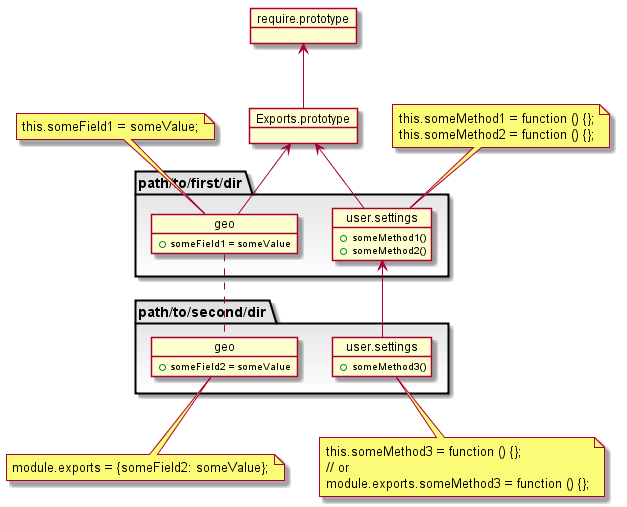
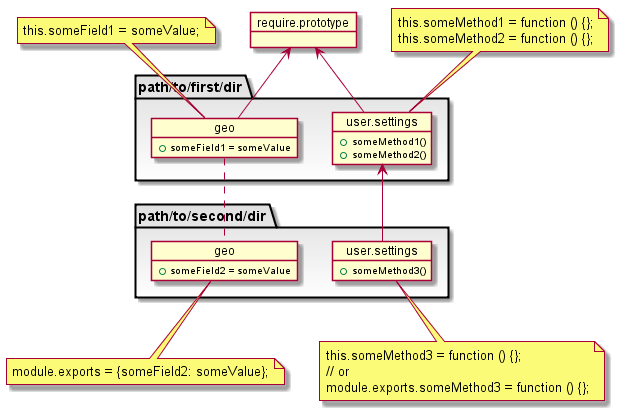
Update doc

diff --git a/doc/require.js.html b/doc/require.js.html
@@ -22,9 +22,9 @@
 <article>
 <pre class="prettyprint source"><code>/** * @file Implementation require for XScript and client-side. * @author Vlad Kurkin &lt;b-vladi@yandex-team.ru> * @version 1.6 * @license &lt;a href="https://github.com/appendto/amplify/blob/master/MIT-LICENSE.txt">MIT&lt;/a> */
 
-/** * Пространство имен XJS-модулей. * @namespace $XM * @see require */ var $XM = {};
+/** * Глобальное пространство имен CommonJS-модулей. * @namespace $XM * @see require */ var $XM = {};
 
-/** * @description Implementation require for XScript and client-side. See {@tutorial README}. * &lt;br />Алгоритм работы require: * &lt;br />&lt;img src="../uml/Work.png" /> * &lt;br />Схема наследования модулей: * &lt;br />&lt;img src="../uml/Inherit.png" /> * @param {String} namespace Пространство имен модуля или путь к JavaScript-файлу. Пространство имен представляет собой строку имён, разделённых точкой. Имя должно начинаться с буквы, затем могут идти символы латинского алфавита и знаки "-_". В случае передачи пути, require воспринимает это как обращение к подмодулю (см. диаграмму алгоритма работы в исходниках), инициализируя свойство {@link Module#parent}. * @tutorial README * @function require * @global * @return {Object} Объект {@link Module#exports}. * @property {Array} [path=[]] Массив путей с директориями, в которых будут искаться файлы модулей на серверной стороне. Каждый путь представляет собой уровень переопределения, выстраивающий соответствующую цепочку наследования модулей из одного пространства имен. * @property {String} [extension='js'] Расширение файлов модулей. См {@link Module#load}. * @property {String} [packageName='package.json'] Имя JSON-файла, содержащий информацию о модуле. См {@link Module#load}. * @property {Object} [file=xscript.file] Объект с методами доступа к файловой системе. Существует только на серверной стороне. * @property {Object} prototype Общий прототип объектов API модулей ({@link Module#exports}). * @property {Function} define(namespace,wrapper) Регистрирует модуль по указанному namespace в первом параметре. Вторым параметром должена быть функция, которая принимает 4 аргумента (см. {@link Module#compile}) и содержит в себе тело модуля. Вызов метода require.define не инициализирует модуль (функция wrapper не вызывается). Инициализация происходит в момент первого обращения к модулю через вызов require. Все аргументы обязательны. * @throws {RequireError} Ошибка получения модуля. * @example * // Загрузка модуля из разных уровней переопределения: * require.path = ['/path/to/first/dir/', './path/to/second/dir']; * require('name.space'); * // В этом случае объект API модуля, загруженного из файла "path/to/second/dir/names.space.js" * // будет наследовать от API модуля, загруженного из "/path/to/first/dir/names.space.js". * * // Доступ к модулям из пространства имен: * require('some.name.space'); * $XM.some.name.space; // объект {@link Module#exports}. * * // Регистрация модуля в браузере: * require.define('name.space', function (module, exports, require, basedir) { * // Тело модуля * }); */
+/** * @description Кастомная реализация функции require для CommonJS-модулей с поддержкой окружений XScript и Client-side. See {@tutorial README}. * &lt;br />Алгоритм работы require: * &lt;br />&lt;img src="../uml/Work.png" /> * &lt;br />Схема наследования модулей: * &lt;br />&lt;img src="../uml/Inherit.png" /> * @param {String} namespace Пространство имен модуля или путь к JavaScript-файлу. Пространство имен представляет собой строку имён, разделённых точкой. Имя должно начинаться с буквы, затем могут идти символы латинского алфавита, а так же знаки "-" и "_". Если переданный аргумент не является пространством имен, он воспринимается как путь к файлу, по которому следует загрузить модуль. * @tutorial README * @function require * @global * @return {Object} Объект {@link Module#exports}. * @property {Array} [path=[]] Массив путей с директориями, в которых будут искаться файлы модулей на серверной стороне. Каждый путь представляет собой уровень переопределения, выстраивающий соответствующую цепочку наследования модулей из одного пространства имен (см. схему наследования). * @property {String} [extension='js'] Расширение файлов модулей. Подробнее: {@link Module#load}. * @property {String} [packageName='package.json'] Имя JSON-файла, содержащий информацию о модуле. В данный момент используется только свойство main. Подробнее: {@link Module#load}. * @property {Object} [file=xscript.file] API XScript-а для работы с файловой системой. Существует только на серверной стороне. * @property {Object} prototype Общий прототип объектов ({@link Module#exports}) (см. схему наследования). * @property {Function} define(namespace,wrapper) Регистрирует модуль по указанному пространству имен в первом параметре. Вторым параметром должена быть функция, которая принимает 4 аргумента (см. {@link Module#compile}) и содержит в себе тело модуля. Вызов метода {@link require}.define не инициализирует модуль (функция wrapper не вызывается). Инициализация происходит в момент первого обращения к модулю через вызов require. Все аргументы обязательны. * @throws {RequireError} Ошибка получения модуля. * @example * // Загрузка модуля из разных уровней переопределения: * require.path = ['/path/to/first/dir/', './path/to/second/dir']; * require('name.space'); * // В этом случае объект {@link Module#exports}, из модуля "path/to/second/dir/names.space.js", * // будет наследовать от объекта {@link Module#exports}, из модуля "/path/to/first/dir/names.space.js". * * // Доступ к модулям из глобального пространства имен: * require('some.name.space'); * $XM.some.name.space; // объект {@link Module#exports}. * * // Регистрация модуля в браузере: * require.define('name.space', function (module, exports, require, basedir) { * // Тело модуля * }); */
 
 var require = (function () { var MODULE_CACHE = {}, WRAPPER_CACHE = {}, STACK = [], NSRegExp = /^([a-z]+[a-z\-_]*)(?:\.[a-z]+[a-z\-_]*)*$/i, parent = null, undefined;
 
@@ -60,9 +60,9 @@ RequireError.prototype = new Error(); RequireError.prototype.name = 'RequireErro
 
 function Exports() { }
 
-/** * Конструктор объекта модуля. * @summary &lt;img src="../uml/Module.png" alt="" /> * @name Module * @constructor * @private * @param {String} [namespace=undefined] Пространство имен модуля. * @param {String} [path=undefined] Путь к файлу или дирректории, по которому он будет загружен. * @throws {RequireError} Ошибка создания модуля. */ function Module(namespace, path) { /** * Функция загрузки модуля, аналогична {@link require}. * @param {String} namespace См. {@link require}. * @name Module#require * @method */ this.require = requireFactory(this);
+/** * Конструктор объекта модуля. Структура создаваемых экземпляров отличается от спецификации CommonJS. * @summary &lt;img src="../uml/Module.png" alt="" /> * @name Module * @constructor * @private * @param {String} [namespace=undefined] Пространство имен модуля. * @param {String} [path=undefined] Путь к файлу или дирректории, по которому он будет загружен. * @throws {RequireError} Ошибка создания модуля. */ function Module(namespace, path) { /** * Функция загрузки модуля, аналогична {@link require}. * @param {String} namespace См. {@link require}. * @name Module#require * @method */ this.require = requireFactory(this);
 
-/** * Реализация модуля, являющаяся его внешним API. По-умолчанию этот объект наследует от {@link Module#prototype}. Для того, что бы разорвать наследование между уровнями переопределения, достаточно заменить значение этого свойства (см. диаграмму с примером наследования в исходниках). * @name Module#exports * @type {Object} */ this.exports = new Exports();
+/** * Реализация модуля, являющаяся его внешним API. По-умолчанию этот объект наследует от {@link Module#prototype}. Для того, что бы разорвать наследование между уровнями переопределения, достаточно заменить значение этого свойства (см. диаграмму наследования). * @name Module#exports * @type {Object} */ this.exports = new Exports();
 
 /** * Ссылка на прототип объекта {@link Module#exports}. Концом цепочки наследования является {@link require}.prototype, если не было переопределено свойство {@link Module#exports} на каком-либо уровне переопределения. * @name Module#prototype * @type {Object} * @example * // Исходный код модуля, находящегося на втором уровне переопределения. * // Перекрытие наследуемого метода. * this.log = function (string) { * // Вызов исходного метода * return module.prototype.log('[LOG]: ' + string); * } */ this.prototype = Exports.prototype;
 
@@ -86,7 +86,7 @@ parent = null;
 
 if (path) { this.init(this.load(path).compile()); } }
 
-/** * Загружает код модуля из папки dir на серверной стороне. Поиск кода осуществляется последовательно в местах: * &lt;br />&lt;br /> * Если модуль имеет пространство имён: * &lt;ol> * &lt;li>Ищется папка с именем пространства имён.&lt;/li> * &lt;li>Если папка найдена, в ней ищется JSON-файл с именем, указанным в {@link require}.packageName.&lt;/li> * &lt;li>Если JSON-файл найден и в нем определено свойство main с именем входного файла, ищется указанный файл в текущей папке&lt;/li> * &lt;li>Если JSON-файл отсутствует, в текущей папке ищется файл, имя которого совпадает с пространством имен модуля с расширением, указанным в {@link require}.extension.&lt;/li> * &lt;/ol> * Если пространство имен не указано, код загружается по указанному пути. * &lt;br />&lt;br />Таким образом, файловая структура модуля c установленным namespace может представлять собой (в порядке приоритета): * &lt;ol> * &lt;li>namespace/&lt;br />&nbsp;&nbsp;package.json ({"main": "main.js"})&lt;br />&nbsp;&nbsp;main.js&lt;/li> * &lt;li>namespace/&lt;br />&nbsp;&nbsp;namespace.js&lt;/li> * &lt;li>namespace.js&lt;/li> * &lt;/ol> * &lt;br />&lt;br /> * Схема алгоритма поиска модуля: * &lt;br />&lt;img src="../uml/Load.png" /> * &lt;p> * &lt;b>TODO:&lt;/b> реализовать поддержку загрузки по URL из браузера. * &lt;/p> * @param {String} dir Путь к файлу или дирректории. * @return {Module} * @name Module#load * @throws {Error|RequireError} Ошибка загрузки кода. * @method */ Module.prototype.load = function (dir) { var PATH_TO_FILE = 1, PATH_TO_PACKAGE = 2, PATH_TO_DIR = 3, PATH_TO_MAIN = 4;
+/** * Загружает код модуля из папки dir на серверной стороне. Поиск кода осуществляется последовательно в местах: * &lt;br />&lt;br /> * Если модуль имеет пространство имён: * &lt;ol> * &lt;li>Ищется папка с именем пространства имён.&lt;/li> * &lt;li>Если папка найдена, в ней ищется JSON-файл с именем, указанным в {@link require}.packageName.&lt;/li> * &lt;li>Если JSON-файл найден и в нем определено свойство main с именем входного файла, ищется указанный файл в текущей папке.&lt;/li> * &lt;li>Если JSON-файл отсутствует, в текущей папке ищется файл, имя которого совпадает с пространством имен модуля с расширением, указанным в {@link require}.extension.&lt;/li> * &lt;/ol> * Если пространство имен не указано, код загружается по указанному пути. * &lt;br />&lt;br />Таким образом, файловая структура модуля c установленным namespace может представлять собой (в порядке приоритета): * &lt;ol> * &lt;li>namespace/&lt;br />&nbsp;&nbsp;package.json ({"main": "main.js"})&lt;br />&nbsp;&nbsp;main.js&lt;/li> * &lt;li>namespace/&lt;br />&nbsp;&nbsp;namespace.js&lt;/li> * &lt;li>namespace.js&lt;/li> * &lt;/ol> * &lt;br />&lt;br /> * Схема алгоритма поиска модуля: * &lt;br />&lt;img src="../uml/Load.png" /> * &lt;p> * &lt;b>TODO:&lt;/b> реализовать поддержку загрузки по URL из браузера. * &lt;/p> * @param {String} dir Путь к файлу или дирректории. * @return {Module} * @name Module#load * @throws {Error|RequireError} Ошибка загрузки кода. * @method */ Module.prototype.load = function (dir) { var PATH_TO_FILE = 1, PATH_TO_PACKAGE = 2, PATH_TO_DIR = 3, PATH_TO_MAIN = 4;
 
 var namespace = this.namespace, path = dir, state;
 
@@ -164,9 +164,9 @@ WRAPPER_CACHE[namespace] = module; };
 
 return Require; }());
 
-/* @startuml * "Save module in cache" as SaveInCache -d-> "Create namespace" as NS * * (*) --> if "" then * note left: The module is\nin the cache? * -d-> [true] "Return\n&lt;i>module.exports&lt;/i>" as Return * else * -r-> [false] if "" then * note top: The module is defined? * partition "1. Load from defined" { * --> [true] "&lt;i>new Module(namespace)&lt;/i>\n&lt;i>.init(wrapper)&lt;/i>" * -d-> SaveInCache * } * else * -r-> [false] if "" then * note top: The first argument\nis the namespace? * * partition "2. Load from namespace" { * -d-> [true] "Iterating of\n&lt;i>require.path&lt;/i>,\n&lt;i>new Module(namespace, path);&lt;/i>" * -d-> SaveInCache * } * * else * partition "3. Load from file" { * -r-> [false] "&lt;i>new Module(null,&lt;/i>\n&lt;i>namespace);&lt;/i>" * --> Return * } * endif * endif * endif * * NS --> Return * Return -d-> (*) * @enduml * * @startuml * object require.prototype { * } * * object Exports.prototype { * } * * package "path/to/first/dir" #DFDFDF-ffffff { * object "user.settings" as Settings_1 &lt;&lt; (E,orchid) >> { * +someMethod1() * +someMethod2() * }
+/* @startuml * "Save module in cache" as SaveInCache -d-> "Create namespace" as NS * * (*) --> if "" then * note left: The module is\nin the cache? * -d-> [true] "Return\n&lt;i>module.exports&lt;/i>" as Return * else * -r-> [false] if "" then * note top: The module is defined? * partition "1. Load from defined" { * --> [true] "&lt;i>new Module(namespace)&lt;/i>\n&lt;i>.init(wrapper)&lt;/i>" * -d-> SaveInCache * } * else * -r-> [false] if "" then * note top: The first argument\nis the namespace? * * partition "2. Load from namespace" { * -d-> [true] "Iterating of\n&lt;i>require.path&lt;/i>,\n&lt;i>new Module(namespace, path);&lt;/i>" * -d-> SaveInCache * } * * else * partition "3. Load from file" { * -r-> [false] "&lt;i>new Module(null,&lt;/i>\n&lt;i>namespace);&lt;/i>" * --> Return * } * endif * endif * endif * * NS --> Return * Return -d-> (*) * @enduml * * @startuml * object require.prototype { * } * * package "path/to/first/dir" #DFDFDF-ffffff { * object "user.settings" as Settings_1 &lt;&lt; (E,orchid) >> { * +someMethod1() * +someMethod2() * }
 
-* object "geo" as Geo_1 &lt;&lt; (E,orchid) >> { * +someField1 = someValue * } * } * * package "path/to/second/dir" #DFDFDF-ffffff { * object "user.settings" as Settings_2 &lt;&lt; (E,orchid) >> { * +someMethod3() * } * * object "geo" as Geo_2 &lt;&lt; (E,orchid) >> { * +someField2 = someValue * } * } * * Exports.prototype &lt;-- Settings_1 * Exports.prototype &lt;-- Geo_1 * * require.prototype &lt;-- Exports.prototype * * Settings_1 &lt;-- Settings_2 * Geo_1 .. Geo_2 * * note top of Geo_1 * this.someField1 = someValue; * end note * * note top of Settings_1 * this.someMethod1 = function () {}; * this.someMethod2 = function () {}; * end note * * note bottom of Geo_2 * module.exports = {someField2: someValue}; * end note * * note bottom of Settings_2 * this.someMethod3 = function () {}; * // or * module.exports.someMethod3 = function () {}; * end note * @enduml * * @startuml * note left: module.load(dir); * (*) -d-> if "" then * note left: Есть ли\nпространство имён? * -r-> [&lt;b>true&lt;/b>\n&lt;i>dir += namespace&lt;/i>\n&lt;i>path = dir&lt;/i>] "&lt;b>PATH_TO_DIR&lt;/b>\nПоиск директории &lt;i>path&lt;/i>" as PathToDir * else * -d-> [&lt;b>false&lt;/b>\n&lt;i>path = dir&lt;/i>] "&lt;b>PATH_TO_FILE&lt;/b>\nПоиск файла &lt;i>path&lt;/i>" as PathToFile * endif * * PathToDir -d-> if "" then * note right: Found? * --> [&lt;b>true&lt;/b>\n&lt;i>path = dir + Require.packageName&lt;/i>] "&lt;b>PATH_TO_PACKAGE&lt;/b>\nПоиск JSON-файла &lt;i>path&lt;/i>" as PathToPackage * else * --> [&lt;b>false&lt;/b>\n&lt;i>path = dir + '.' + Require.extension&lt;/i>] PathToFile * endif * * PathToPackage --> if "" then * note right: Found? * --> [&lt;b>true&lt;/b>\n&lt;i>path = dir + '/' + package.main&lt;/i>] "&lt;b>PATH_TO_MAIN&lt;/b>\nПоиск входного файла модуля &lt;i>path&lt;/i>" as PathToMain * else * -l-> [&lt;b>false&lt;/b>\n&lt;i>path = dir + '/' + namespace + '.' + Require.extension&lt;/i>] PathToFile * endif * * PathToMain --> if "" then * note right: Found? * -l-> [&lt;b>true&lt;/b>] "Загрузка файла из &lt;i>path&lt;/i>" as Load * else * --> [&lt;b>false&lt;/b>\n&lt;i>Can`t find main file&lt;/i>] RequireError * endif * * PathToFile -d-> if "" then * note left: Found? * -r-> [&lt;b>true&lt;/b>] Load * else * --> [&lt;b>false&lt;/b>\n&lt;i>Cant find module&lt;/i>] RequireError * endif * * Load --> if "" then * note left: Loaded? * -r-> [&lt;b>true&lt;/b>] (*) * else * --> [&lt;b>false&lt;/b>\n&lt;i>Can`t load module file&lt;/i>] RequireError * endif * @enduml */ </code></pre>
+* object "geo" as Geo_1 &lt;&lt; (E,orchid) >> { * +someField1 = someValue * } * } * * package "path/to/second/dir" #DFDFDF-ffffff { * object "user.settings" as Settings_2 &lt;&lt; (E,orchid) >> { * +someMethod3() * } * * object "geo" as Geo_2 &lt;&lt; (E,orchid) >> { * +someField2 = someValue * } * } * * require.prototype &lt;-- Settings_1 * require.prototype &lt;-- Geo_1 * * Settings_1 &lt;-- Settings_2 * Geo_1 .. Geo_2 * * note top of Geo_1 * this.someField1 = someValue; * end note * * note top of Settings_1 * this.someMethod1 = function () {}; * this.someMethod2 = function () {}; * end note * * note bottom of Geo_2 * module.exports = {someField2: someValue}; * end note * * note bottom of Settings_2 * this.someMethod3 = function () {}; * // or * module.exports.someMethod3 = function () {}; * end note * @enduml * * @startuml * note left: module.load(dir); * (*) -d-> if "" then * note left: Есть ли\nпространство имён? * -r-> [&lt;b>true&lt;/b>\n&lt;i>dir += namespace&lt;/i>\n&lt;i>path = dir&lt;/i>] "&lt;b>PATH_TO_DIR&lt;/b>\nПоиск директории &lt;i>path&lt;/i>" as PathToDir * else * -d-> [&lt;b>false&lt;/b>\n&lt;i>path = dir&lt;/i>] "&lt;b>PATH_TO_FILE&lt;/b>\nПоиск файла &lt;i>path&lt;/i>" as PathToFile * endif * * PathToDir -d-> if "" then * note right: Found? * --> [&lt;b>true&lt;/b>\n&lt;i>path = dir + require.packageName&lt;/i>] "&lt;b>PATH_TO_PACKAGE&lt;/b>\nПоиск JSON-файла &lt;i>path&lt;/i>" as PathToPackage * else * --> [&lt;b>false&lt;/b>\n&lt;i>path = dir + '.' + require.extension&lt;/i>] PathToFile * endif * * PathToPackage --> if "" then * note right: Found? * --> [&lt;b>true&lt;/b>\n&lt;i>path = dir + '/' + package.main&lt;/i>] "&lt;b>PATH_TO_MAIN&lt;/b>\nПоиск входного файла модуля &lt;i>path&lt;/i>" as PathToMain * else * -l-> [&lt;b>false&lt;/b>\n&lt;i>path = dir + '/' + namespace + '.' + require.extension&lt;/i>] PathToFile * endif * * PathToMain --> if "" then * note right: Found? * -l-> [&lt;b>true&lt;/b>] "Загрузка файла из &lt;i>path&lt;/i>" as Load * else * --> [&lt;b>false&lt;/b>\n&lt;i>Can`t find main file&lt;/i>] "&lt;i>throw RequireError&lt;/i>" as RequireError * endif * * PathToFile -d-> if "" then * note left: Found? * -r-> [&lt;b>true&lt;/b>] Load * else * --> [&lt;b>false&lt;/b>\n&lt;i>Cant find module&lt;/i>] RequireError * endif * * Load --> if "" then * note left: Loaded? * -r-> [&lt;b>true&lt;/b>] (*) * else * --> [&lt;b>false&lt;/b>\n&lt;i>Can`t load module file&lt;/i>] RequireError * endif * @enduml */ </code></pre>
 </article>
 </section>
 
@@ -197,7 +197,7 @@ return Require; }());
 <br clear="both">
 
 <footer>
-    Documentation generated by <a href="https://github.com/jsdoc3/jsdoc">JSDoc 3.2.0-dev</a> on Tue Sep 03 2013 19:41:35 GMT+0400 (MSK)
+    Documentation generated by <a href="https://github.com/jsdoc3/jsdoc">JSDoc 3.2.0-dev</a> on Wed Sep 04 2013 15:49:05 GMT+0400 (MSK)
 </footer>
 
 <script> prettyPrint(); </script>

diff --git a/require.js b/require.js
@@ -6,38 +6,38 @@
  */
 
 /**
- * Пространство имен XJS-модулей.
+ * Глобальное пространство имен CommonJS-модулей.
  * @namespace $XM
  * @see require
  */
 var $XM = {};
 
 /**
- * @description Implementation require for XScript and client-side. See {@tutorial README}.
+ * @description Кастомная реализация функции require для CommonJS-модулей с поддержкой окружений XScript и Client-side. See {@tutorial README}.
  * <br />Алгоритм работы require:
  * <br /><img src="../uml/Work.png" />
  * <br />Схема наследования модулей:
  * <br /><img src="../uml/Inherit.png" />
- * @param {String} namespace Пространство имен модуля или путь к JavaScript-файлу. Пространство имен представляет собой строку имён, разделённых точкой. Имя должно начинаться с буквы, затем могут идти символы латинского алфавита и знаки "-_". В случае передачи пути, require воспринимает это как обращение к подмодулю (см. диаграмму алгоритма работы в исходниках), инициализируя свойство {@link Module#parent}.
+ * @param {String} namespace Пространство имен модуля или путь к JavaScript-файлу. Пространство имен представляет собой строку имён, разделённых точкой. Имя должно начинаться с буквы, затем могут идти символы латинского алфавита, а так же знаки "-" и "_". Если переданный аргумент не является пространством имен, он воспринимается как путь к файлу, по которому следует загрузить модуль.
  * @tutorial README
  * @function require
  * @global
  * @return {Object} Объект {@link Module#exports}.
- * @property {Array} [path=[]] Массив путей с директориями, в которых будут искаться файлы модулей на серверной стороне. Каждый путь представляет собой уровень переопределения, выстраивающий соответствующую цепочку наследования модулей из одного пространства имен.
- * @property {String} [extension='js'] Расширение файлов модулей. См {@link Module#load}.
- * @property {String} [packageName='package.json'] Имя JSON-файла, содержащий информацию о модуле. См {@link Module#load}.
- * @property {Object} [file=xscript.file] Объект с методами доступа к файловой системе. Существует только на серверной стороне.
- * @property {Object} prototype Общий прототип объектов API модулей ({@link Module#exports}).
- * @property {Function} define(namespace,wrapper) Регистрирует модуль по указанному namespace в первом параметре. Вторым параметром должена быть функция, которая принимает 4 аргумента (см. {@link Module#compile}) и содержит в себе тело модуля. Вызов метода require.define не инициализирует модуль (функция wrapper не вызывается). Инициализация происходит в момент первого обращения к модулю через вызов require. Все аргументы обязательны.
+ * @property {Array} [path=[]] Массив путей с директориями, в которых будут искаться файлы модулей на серверной стороне. Каждый путь представляет собой уровень переопределения, выстраивающий соответствующую цепочку наследования модулей из одного пространства имен (см. схему наследования).
+ * @property {String} [extension='js'] Расширение файлов модулей. Подробнее: {@link Module#load}.
+ * @property {String} [packageName='package.json'] Имя JSON-файла, содержащий информацию о модуле. В данный момент используется только свойство main. Подробнее: {@link Module#load}.
+ * @property {Object} [file=xscript.file] API XScript-а для работы с файловой системой. Существует только на серверной стороне.
+ * @property {Object} prototype Общий прототип объектов ({@link Module#exports}) (см. схему наследования).
+ * @property {Function} define(namespace,wrapper) Регистрирует модуль по указанному пространству имен в первом параметре. Вторым параметром должена быть функция, которая принимает 4 аргумента (см. {@link Module#compile}) и содержит в себе тело модуля. Вызов метода {@link require}.define не инициализирует модуль (функция wrapper не вызывается). Инициализация происходит в момент первого обращения к модулю через вызов require. Все аргументы обязательны.
  * @throws {RequireError} Ошибка получения модуля.
  * @example
  * // Загрузка модуля из разных уровней переопределения:
  * require.path = ['/path/to/first/dir/', './path/to/second/dir'];
  * require('name.space');
- * // В этом случае объект API модуля, загруженного из файла "path/to/second/dir/names.space.js"
- * // будет наследовать от API модуля, загруженного из "/path/to/first/dir/names.space.js".
+ * // В этом случае объект {@link Module#exports}, из модуля "path/to/second/dir/names.space.js",
+ * // будет наследовать от объекта {@link Module#exports}, из модуля "/path/to/first/dir/names.space.js".
  *
- * // Доступ к модулям из пространства имен:
+ * // Доступ к модулям из глобального пространства имен:
  * require('some.name.space');
  * $XM.some.name.space; // объект {@link Module#exports}.
  *
@@ -124,7 +124,7 @@ var require = (function () {
     }
 
     /**
-     * Конструктор объекта модуля.
+     * Конструктор объекта модуля. Структура создаваемых экземпляров отличается от спецификации CommonJS.
      * @summary <img src="../uml/Module.png" alt="" />
      * @name Module
      * @constructor
@@ -143,7 +143,7 @@ var require = (function () {
         this.require = requireFactory(this);
 
         /**
-         * Реализация модуля, являющаяся его внешним API. По-умолчанию этот объект наследует от {@link Module#prototype}. Для того, что бы разорвать наследование между уровнями переопределения, достаточно заменить значение этого свойства (см. диаграмму с примером наследования в исходниках).
+         * Реализация модуля, являющаяся его внешним API. По-умолчанию этот объект наследует от {@link Module#prototype}. Для того, что бы разорвать наследование между уровнями переопределения, достаточно заменить значение этого свойства (см. диаграмму наследования).
          * @name Module#exports
          * @type {Object}
          */
@@ -250,7 +250,7 @@ var require = (function () {
      * <ol>
      *   <li>Ищется папка с именем пространства имён.</li>
      *   <li>Если папка найдена, в ней ищется JSON-файл с именем, указанным в {@link require}.packageName.</li>
-     *   <li>Если JSON-файл найден и в нем определено свойство main с именем входного файла, ищется указанный файл в текущей папке</li>
+     *   <li>Если JSON-файл найден и в нем определено свойство main с именем входного файла, ищется указанный файл в текущей папке.</li>
      *   <li>Если JSON-файл отсутствует, в текущей папке ищется файл, имя которого совпадает с пространством имен модуля с расширением, указанным в {@link require}.extension.</li>
      * </ol>
      * Если пространство имен не указано, код загружается по указанному пути.
@@ -536,9 +536,6 @@ var require = (function () {
  * object require.prototype {
  * }
  *
- * object Exports.prototype {
- * }
- *
  * package "path/to/first/dir" #DFDFDF-ffffff {
  *   object "user.settings" as Settings_1 << (E,orchid) >> {
  *     +someMethod1()
@@ -560,10 +557,8 @@ var require = (function () {
  *   }
  * }
  *
- * Exports.prototype <-- Settings_1
- * Exports.prototype <-- Geo_1
- *
- * require.prototype <-- Exports.prototype
+ * require.prototype <-- Settings_1
+ * require.prototype <-- Geo_1
  *
  * Settings_1 <-- Settings_2
  * Geo_1 .. Geo_2
@@ -599,23 +594,23 @@ var require = (function () {
  *
  * PathToDir -d-> if "" then
  *     note right: Found?
- *   --> [<b>true</b>\n<i>path = dir + Require.packageName</i>] "<b>PATH_TO_PACKAGE</b>\nПоиск JSON-файла <i>path</i>" as PathToPackage
+ *   --> [<b>true</b>\n<i>path = dir + require.packageName</i>] "<b>PATH_TO_PACKAGE</b>\nПоиск JSON-файла <i>path</i>" as PathToPackage
  *   else
- *   --> [<b>false</b>\n<i>path = dir + '.' + Require.extension</i>] PathToFile
+ *   --> [<b>false</b>\n<i>path = dir + '.' + require.extension</i>] PathToFile
  * endif
  *
  * PathToPackage --> if "" then
  *   note right: Found?
  *   --> [<b>true</b>\n<i>path = dir + '/' + package.main</i>] "<b>PATH_TO_MAIN</b>\nПоиск входного файла модуля <i>path</i>" as PathToMain
  *   else
- *   -l-> [<b>false</b>\n<i>path = dir + '/' + namespace + '.' + Require.extension</i>] PathToFile
+ *   -l-> [<b>false</b>\n<i>path = dir + '/' + namespace + '.' + require.extension</i>] PathToFile
  * endif
  *
  * PathToMain --> if "" then
  *   note right: Found?
  *   -l-> [<b>true</b>] "Загрузка файла из <i>path</i>" as Load
  *   else
- *   --> [<b>false</b>\n<i>Can`t find main file</i>] RequireError
+ *   --> [<b>false</b>\n<i>Can`t find main file</i>] "<i>throw RequireError</i>" as RequireError
  * endif
  *
  * PathToFile -d-> if "" then

diff --git a/doc/global.html b/doc/global.html
@@ -48,8 +48,8 @@
 <dd>
 
 <div class="description">
-    Implementation require for XScript and client-side. See <a href="tutorial-README.html">README</a>. <br />Алгоритм работы require:
-    <br /><img src="../uml/Work.png" /> <br />Схема наследования модулей: <br /><img src="../uml/Inherit.png" />
+    Кастомная реализация функции require для CommonJS-модулей с поддержкой окружений XScript и Client-side. See <a href="tutorial-README.html">README</a>.
+    <br />Алгоритм работы require: <br /><img src="../uml/Work.png" /> <br />Схема наследования модулей: <br /><img src="../uml/Inherit.png" />
 </div>
 
 <h5>Parameters:</h5>
@@ -78,9 +78,7 @@
 
         </td>
 
-        <td class="description last">Пространство имен модуля или путь к JavaScript-файлу. Пространство имен представляет собой строку имён, разделённых точкой. Имя должно начинаться с буквы, затем могут идти символы латинского алфавита и знаки "-_". В случае передачи пути, require воспринимает это как обращение к подмодулю (см. диаграмму алгоритма работы в исходниках), инициализируя свойство
-            <a href="Module.html#parent">Module#parent</a>.
-        </td>
+        <td class="description last">Пространство имен модуля или путь к JavaScript-файлу. Пространство имен представляет собой строку имён, разделённых точкой. Имя должно начинаться с буквы, затем могут идти символы латинского алфавита, а так же знаки "-" и "_". Если переданный аргумент не является пространством имен, он воспринимается как путь к файлу, по которому следует загрузить модуль.</td>
     </tr>
 
     </tbody>
@@ -132,7 +130,7 @@
 
     </td>
 
-    <td class="description last">Массив путей с директориями, в которых будут искаться файлы модулей на серверной стороне. Каждый путь представляет собой уровень переопределения, выстраивающий соответствующую цепочку наследования модулей из одного пространства имен.</td>
+    <td class="description last">Массив путей с директориями, в которых будут искаться файлы модулей на серверной стороне. Каждый путь представляет собой уровень переопределения, выстраивающий соответствующую цепочку наследования модулей из одного пространства имен (см. схему наследования).</td>
 </tr>
 
 <tr>
@@ -157,7 +155,7 @@
 
     </td>
 
-    <td class="description last">Расширение файлов модулей. См <a href="Module.html#load">Module#load</a>.</td>
+    <td class="description last">Расширение файлов модулей. Подробнее: <a href="Module.html#load">Module#load</a>.</td>
 </tr>
 
 <tr>
@@ -182,7 +180,9 @@
 
     </td>
 
-    <td class="description last">Имя JSON-файла, содержащий информацию о модуле. См <a href="Module.html#load">Module#load</a>.</td>
+    <td class="description last">Имя JSON-файла, содержащий информацию о модуле. В данный момент используется только свойство main. Подробнее:
+        <a href="Module.html#load">Module#load</a>.
+    </td>
 </tr>
 
 <tr>
@@ -207,7 +207,7 @@
 
     </td>
 
-    <td class="description last">Объект с методами доступа к файловой системе. Существует только на серверной стороне.</td>
+    <td class="description last">API XScript-а для работы с файловой системой. Существует только на серверной стороне.</td>
 </tr>
 
 <tr>
@@ -228,7 +228,7 @@
 
     </td>
 
-    <td class="description last">Общий прототип объектов API модулей (<a href="Module.html#exports">Module#exports</a>).</td>
+    <td class="description last">Общий прототип объектов (<a href="Module.html#exports">Module#exports</a>) (см. схему наследования).</td>
 </tr>
 
 <tr>
@@ -249,8 +249,9 @@
 
     </td>
 
-    <td class="description last">Регистрирует модуль по указанному namespace в первом параметре. Вторым параметром должена быть функция, которая принимает 4 аргумента (см.
-        <a href="Module.html#compile">Module#compile</a>) и содержит в себе тело модуля. Вызов метода require.define не инициализирует модуль (функция wrapper не вызывается). Инициализация происходит в момент первого обращения к модулю через вызов require. Все аргументы обязательны.
+    <td class="description last">Регистрирует модуль по указанному пространству имен в первом параметре. Вторым параметром должена быть функция, которая принимает 4 аргумента (см.
+        <a href="Module.html#compile">Module#compile</a>) и содержит в себе тело модуля. Вызов метода
+        <a href="global.html#require">require</a>.define не инициализирует модуль (функция wrapper не вызывается). Инициализация происходит в момент первого обращения к модулю через вызов require. Все аргументы обязательны.
     </td>
 </tr>
 
@@ -317,9 +318,12 @@
 
 <h5>Example</h5>
 
-    <pre class="prettyprint"><code>// Загрузка модуля из разных уровней переопределения: require.path = ['/path/to/first/dir/', './path/to/second/dir']; require('name.space'); // В этом случае объект API модуля, загруженного из файла "path/to/second/dir/names.space.js" // будет наследовать от API модуля, загруженного из "/path/to/first/dir/names.space.js".
+    <pre class="prettyprint"><code>// Загрузка модуля из разных уровней переопределения: require.path = ['/path/to/first/dir/', './path/to/second/dir']; require('name.space'); // В этом случае объект
+        <a href="Module.html#exports">Module#exports</a>, из модуля "path/to/second/dir/names.space.js", // будет наследовать от объекта
+        <a href="Module.html#exports">Module#exports</a>, из модуля "/path/to/first/dir/names.space.js".
 
-        // Доступ к модулям из пространства имен: require('some.name.space'); $XM.some.name.space; // объект <a href="Module.html#exports">Module#exports</a>.
+        // Доступ к модулям из глобального пространства имен: require('some.name.space'); $XM.some.name.space; // объект
+        <a href="Module.html#exports">Module#exports</a>.
 
         // Регистрация модуля в браузере: require.define('name.space', function (module, exports, require, basedir) { // Тело модуля });</code></pre>
 
@@ -358,7 +362,7 @@
 <br clear="both">
 
 <footer>
-    Documentation generated by <a href="https://github.com/jsdoc3/jsdoc">JSDoc 3.2.0-dev</a> on Tue Sep 03 2013 19:41:35 GMT+0400 (MSK)
+    Documentation generated by <a href="https://github.com/jsdoc3/jsdoc">JSDoc 3.2.0-dev</a> on Wed Sep 04 2013 15:49:05 GMT+0400 (MSK)
 </footer>
 
 <script> prettyPrint(); </script>

diff --git a/doc/Module.html b/doc/Module.html
@@ -40,7 +40,7 @@
 <dd>
 
     <div class="description">
-        Конструктор объекта модуля.
+        Конструктор объекта модуля. Структура создаваемых экземпляров отличается от спецификации CommonJS.
     </div>
 
     <h5>Parameters:</h5>
@@ -208,7 +208,7 @@
 
     <div class="description">
         Реализация модуля, являющаяся его внешним API. По-умолчанию этот объект наследует от
-        <a href="Module.html#prototype">Module#prototype</a>. Для того, что бы разорвать наследование между уровнями переопределения, достаточно заменить значение этого свойства (см. диаграмму с примером наследования в исходниках).
+        <a href="Module.html#prototype">Module#prototype</a>. Для того, что бы разорвать наследование между уровнями переопределения, достаточно заменить значение этого свойства (см. диаграмму наследования).
     </div>
 
     <h5>Type:</h5>
@@ -824,7 +824,7 @@
         <ol>
             <li>Ищется папка с именем пространства имён.</li>
             <li>Если папка найдена, в ней ищется JSON-файл с именем, указанным в <a href="global.html#require">require</a>.packageName.</li>
-            <li>Если JSON-файл найден и в нем определено свойство main с именем входного файла, ищется указанный файл в текущей папке</li>
+            <li>Если JSON-файл найден и в нем определено свойство main с именем входного файла, ищется указанный файл в текущей папке.</li>
             <li>Если JSON-файл отсутствует, в текущей папке ищется файл, имя которого совпадает с пространством имен модуля с расширением, указанным в
                 <a href="global.html#require">require</a>.extension.
             </li>
@@ -1016,7 +1016,7 @@
 <br clear="both">
 
 <footer>
-    Documentation generated by <a href="https://github.com/jsdoc3/jsdoc">JSDoc 3.2.0-dev</a> on Tue Sep 03 2013 19:41:36 GMT+0400 (MSK)
+    Documentation generated by <a href="https://github.com/jsdoc3/jsdoc">JSDoc 3.2.0-dev</a> on Wed Sep 04 2013 15:49:05 GMT+0400 (MSK)
 </footer>
 
 <script> prettyPrint(); </script>

diff --git a/doc/tutorial-README.html b/doc/tutorial-README.html
@@ -36,14 +36,14 @@
 
             <ul>
                 <li>Поддержка выполнения модулей в браузере.</li>
-                <li>На серверной стороне загружает модуль по его namespace или абсолютному пути. Логика поиска файлов реализована в
+                <li>В окружении XScript-а загружает модуль по его namespace или локальному пути. Логика поиска файлов реализована в
                     <a href="Module.html#load">Module#load</a>. Исходный код модуля выполняется один раз и далее отдается из внутреннего кеша.
                 </li>
                 <li>Поддерживается регистрация модулей через метод <a href="global.html#require">require</a>.define.</li>
                 <li>Реализует поддержку пространств имен модулей и сохраняет все загруженные модули в глобальном объекте
                     <a href="$XM.html">$XM</a> в соответствии с их <a href="Module.html#namespace">Module#namespace</a>.
                 </li>
-                <li>Поддерживает уровни переопределения и наследование модулей через <a href="global.html#require">require</a>.path.</li>
+                <li>Поддерживает наследование и переопределение и модулей через <a href="global.html#require">require</a>.path.</li>
             </ul>
 
             <p>За создание и инициализацию модуля отвечает конструктор <a href="Module.html">Module</a>.</p>
@@ -80,7 +80,7 @@
 <br clear="both">
 
 <footer>
-    Documentation generated by <a href="https://github.com/jsdoc3/jsdoc">JSDoc 3.2.0-dev</a> on Tue Sep 03 2013 19:41:36 GMT+0400 (MSK)
+    Documentation generated by <a href="https://github.com/jsdoc3/jsdoc">JSDoc 3.2.0-dev</a> on Wed Sep 04 2013 15:49:06 GMT+0400 (MSK)
 </footer>
 
 <script> prettyPrint(); </script>

diff --git a/doc/$XM.html b/doc/$XM.html
@@ -29,7 +29,7 @@
         <article>
             <div class="container-overview">
 
-                <div class="description">Пространство имен XJS-модулей.</div>
+                <div class="description">Глобальное пространство имен CommonJS-модулей.</div>
 
                 <dl class="details">
 
@@ -84,7 +84,7 @@
 <br clear="both">
 
 <footer>
-    Documentation generated by <a href="https://github.com/jsdoc3/jsdoc">JSDoc 3.2.0-dev</a> on Tue Sep 03 2013 19:41:36 GMT+0400 (MSK)
+    Documentation generated by <a href="https://github.com/jsdoc3/jsdoc">JSDoc 3.2.0-dev</a> on Wed Sep 04 2013 15:49:05 GMT+0400 (MSK)
 </footer>
 
 <script> prettyPrint(); </script>

diff --git a/doc/index.html b/doc/index.html
@@ -100,7 +100,7 @@
 <br clear="both">
 
 <footer>
-    Documentation generated by <a href="https://github.com/jsdoc3/jsdoc">JSDoc 3.2.0-dev</a> on Tue Sep 03 2013 19:41:35 GMT+0400 (MSK)
+    Documentation generated by <a href="https://github.com/jsdoc3/jsdoc">JSDoc 3.2.0-dev</a> on Wed Sep 04 2013 15:49:05 GMT+0400 (MSK)
 </footer>
 
 <script> prettyPrint(); </script>

diff --git a/doc/tutorial-CHANGELOG.html b/doc/tutorial-CHANGELOG.html
@@ -84,7 +84,7 @@
 <br clear="both">
 
 <footer>
-    Documentation generated by <a href="https://github.com/jsdoc3/jsdoc">JSDoc 3.2.0-dev</a> on Tue Sep 03 2013 19:41:36 GMT+0400 (MSK)
+    Documentation generated by <a href="https://github.com/jsdoc3/jsdoc">JSDoc 3.2.0-dev</a> on Wed Sep 04 2013 15:49:06 GMT+0400 (MSK)
 </footer>
 
 <script> prettyPrint(); </script>

diff --git a/README.md b/README.md
@@ -7,10 +7,10 @@ Implementation require for XScript and client-side
 ### Features:
 
 * Поддержка выполнения модулей в браузере.
-* На серверной стороне загружает модуль по его namespace или абсолютному пути. Логика поиска файлов реализована в {@link Module#load}. Исходный код модуля выполняется один раз и далее отдается из внутреннего кеша.
+* В окружении XScript-а загружает модуль по его namespace или локальному пути. Логика поиска файлов реализована в {@link Module#load}. Исходный код модуля выполняется один раз и далее отдается из внутреннего кеша.
 * Поддерживается регистрация модулей через метод {@link require}.define.
 * Реализует поддержку пространств имен модулей и сохраняет все загруженные модули в глобальном объекте {@link $XM} в соответствии с их {@link Module#namespace}.
-* Поддерживает уровни переопределения и наследование модулей через {@link require}.path.
+* Поддерживает наследование и переопределение и модулей через {@link require}.path.
 
 За создание и инициализацию модуля отвечает конструктор {@link Module}.
 
